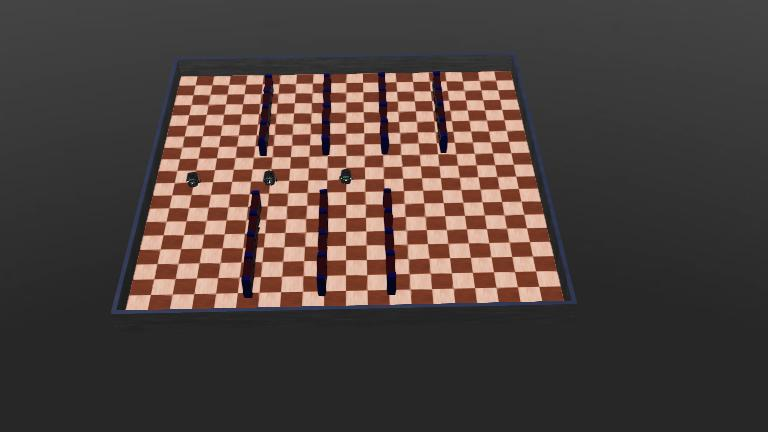
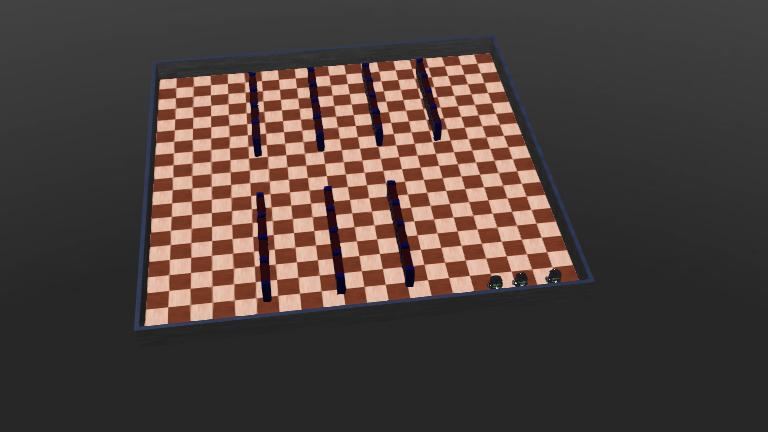
hardcoden is very fun eh

Changed region(s): [[0.125, 0.1204, 0.7812, 0.7824]]

diff --git a/Controller/src/turtleBot/turtleBotStateMachine.py b/Controller/src/turtleBot/turtleBotStateMachine.py
@@ -40,7 +40,7 @@ class TurtleBotSM:
     It handles the robot's sensors, motors, and state transitions.
     """
 
-    def __init__(self, name: str, robot: Robot, time_step: float, max_speed: float, robot_id: int, mqtt_thread):
+    def __init__(self, name: str, robot: Robot, time_step: float, max_speed: float, robot_id: int, mqtt_thread, start_position):
         self.name = name
         self.robot = robot
         self.time_step = time_step
@@ -65,7 +65,6 @@ class TurtleBotSM:
 
         # Init alle variables voor de state machine, ik krijg hier echt depressie van hoor
         self._current_action: str = STATE_IDLE
-        self.position = [0.0, 0.0, 0.0]
         self._prev_left_encoder = 0.0
         self._prev_right_encoder = 0.0
         self._is_first_update = True
@@ -93,8 +92,7 @@ class TurtleBotSM:
         self._explore_max_stagnation_iterations = 5
 
         self.velocity_norm = 0.3
-        self.nonMeasuredPosition = [0.0, 0.0, 0.0]
-        self.position = [0.0, float(self.robot_id), 0.0]
+        self.position = start_position
 
         self._move_to_success = False
 

diff --git a/Controller/src/turtleBot/process.py b/Controller/src/turtleBot/process.py
@@ -36,6 +36,12 @@ class Process:
         return f"Process(name={self.name}, pid={self.pid})"
 
     def start_robot(self):
+        print(f"Starting robot {self.robot_id} with PID {self.pid}")
+        robotPositoins = {
+            0: [-2.2, -2.2, 0],
+            1: [-2.2, -1.8, 0],
+            2: [-2.2, -1.5, 0]
+        }
         self.mqtt_client = MQTTController(self.robot_id, self._add_task)
         
         self.bot = TurtleBotSM(
@@ -44,7 +50,8 @@ class Process:
             time_step=self.TIME_STEP,
             max_speed=self.MAX_SPEED,
             robot_id=self.robot_id,
-            mqtt_thread=self.mqtt_client
+            mqtt_thread=self.mqtt_client,
+            start_position=robotPositoins.get(self.robot_id),
         )
         simulation_thread = Thread(target=self.run_simulation)
 
